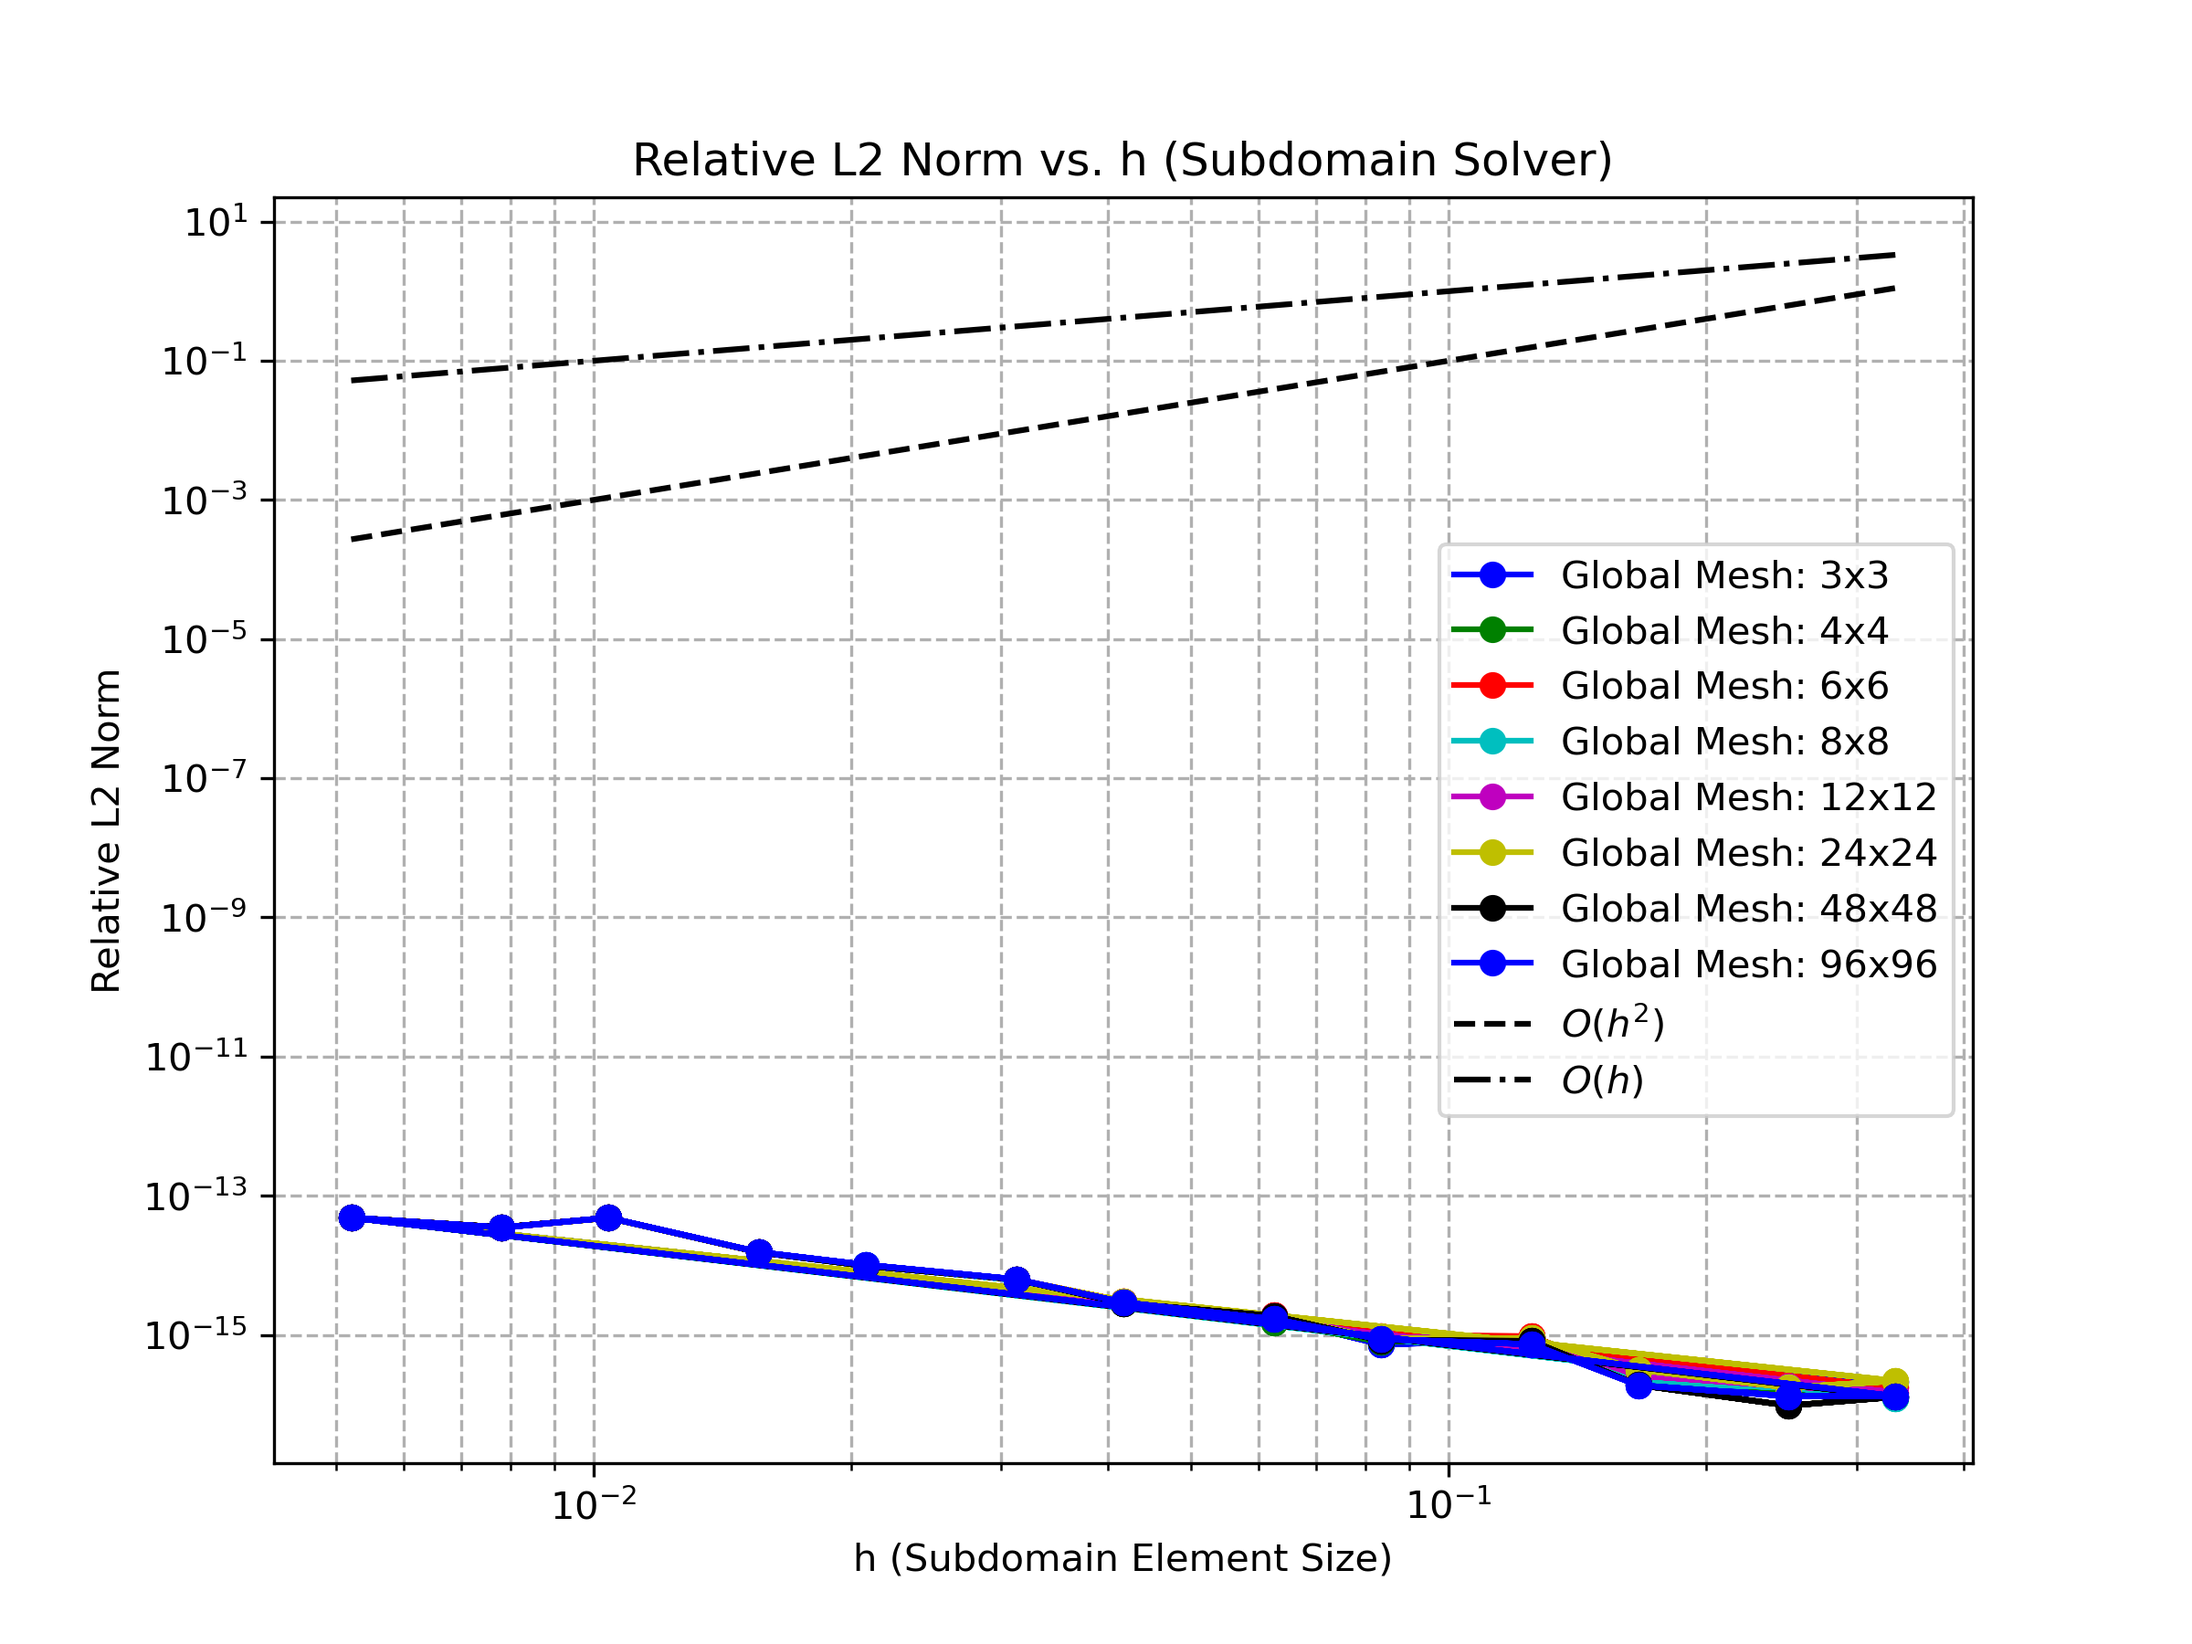
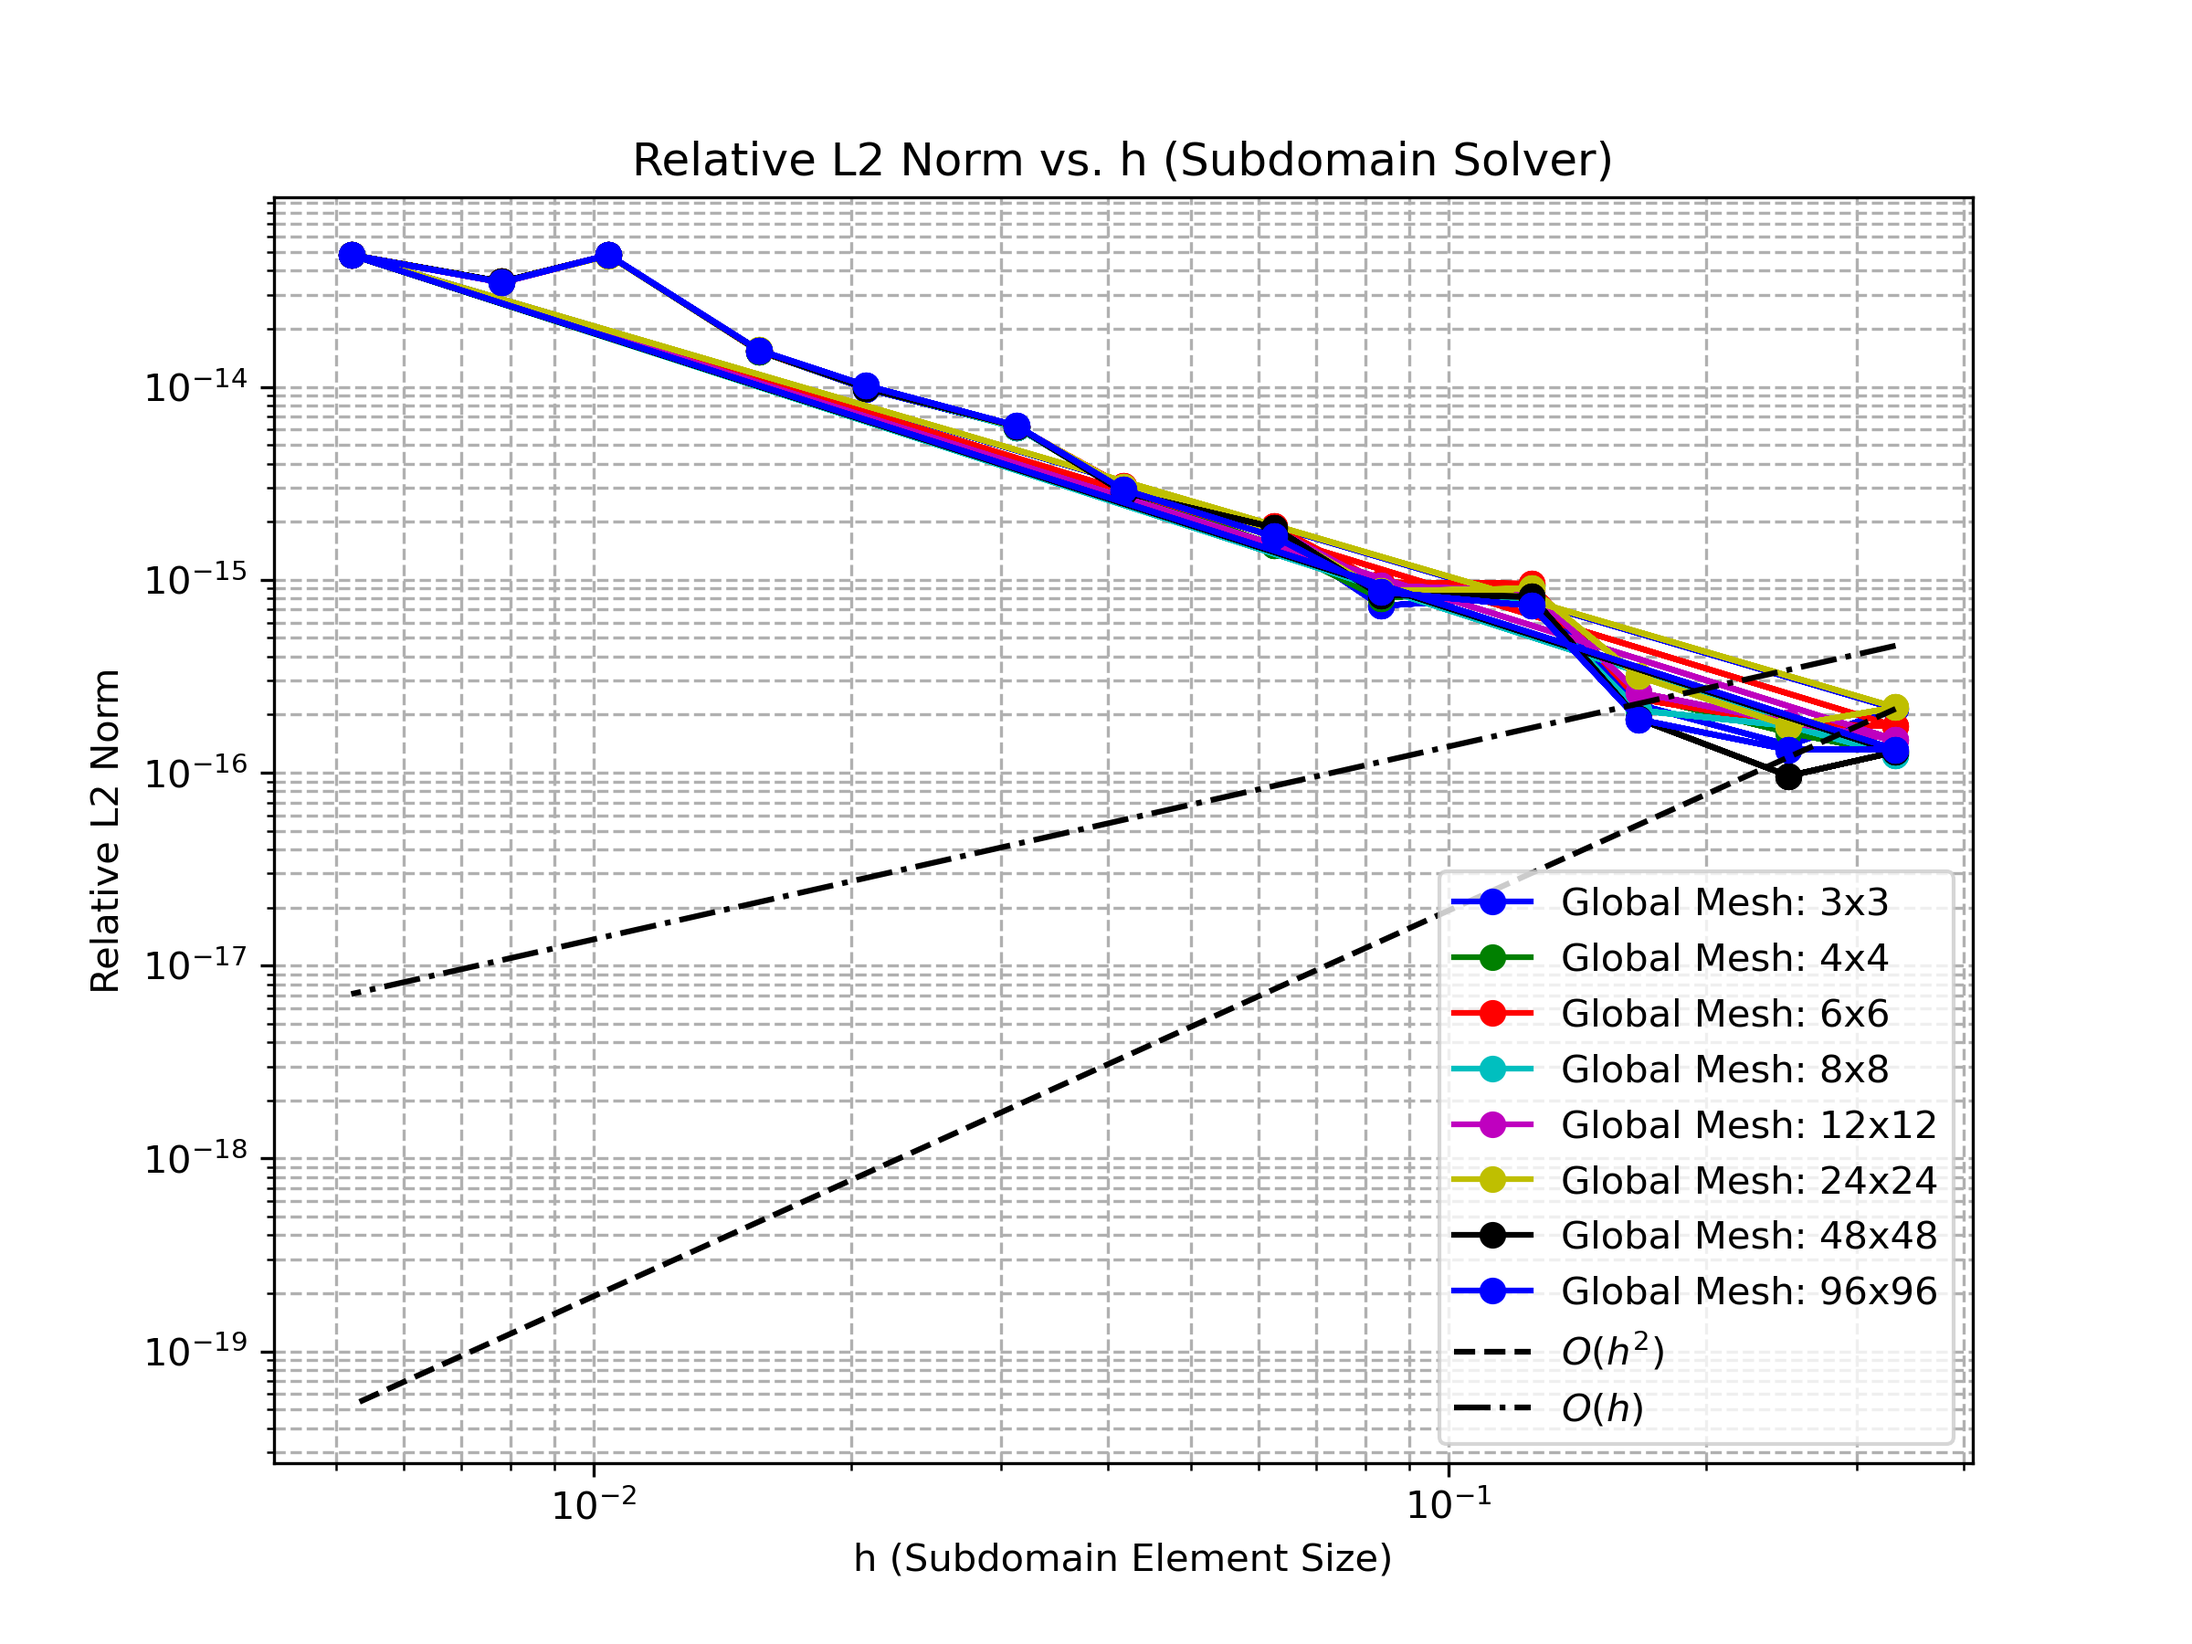
added plots

diff --git a/code/plot2.py b/code/plot2.py
@@ -17,19 +17,31 @@ df = pd.read_csv(csv_file)
 global_mesh_sizes = df[['global_mesh_x', 'global_mesh_y']].drop_duplicates().values
 colors = ['b', 'g', 'r', 'c', 'm', 'y', 'k']  # Colors for multiple plots
 
+# Compute min/max h values for reference lines
+h_min = 1 / df['sub_mesh_x'].max()
+h_max = 1 / df['sub_mesh_x'].min()
+h_ref = np.array([h_max, h_min])
+
+# Select a reasonable reference error from the middle of the data
+ref_index = len(df) // 2
+ref_h = 1 / df.iloc[ref_index]['sub_mesh_x']
+ref_L2 = df.iloc[ref_index]['Relative_L2_norm']
+ref_H1 = df.iloc[ref_index]['H1_norm']
+
+# Define reference lines for O(h^2) and O(h)
+o_h2 = ref_L2 * (h_ref / ref_h)**2  # Quadratic convergence
+o_h1 = ref_H1 * (h_ref / ref_h)  # Linear convergence
+
 # --- Plot 1: Relative L2 Norm vs. h with O(h^2) Reference ---
 plt.figure(figsize=(8, 6))
 
 for i, (Nx, Ny) in enumerate(global_mesh_sizes):
     subset = df[(df['global_mesh_x'] == Nx) & (df['global_mesh_y'] == Ny)]
-    h_subdomain = 1 / subset['sub_mesh_x']  # Compute h values for subdomain mesh
+    h_subdomain = 1 / subset['sub_mesh_x']
     plt.loglog(h_subdomain, subset['Relative_L2_norm'], marker='o', linestyle='-', color=colors[i % len(colors)],
                label=f"Global Mesh: {Nx}x{Ny}")
 
-# Add reference line for O(h^2) (quadratic convergence)
-h_ref = np.array([min(h_subdomain), max(h_subdomain)])
-o_h2 = 10 * h_ref**2  # Adjust scaling to fit within the plot range
-o_h1 = 10 * h_ref  # Linear convergence
+# Plot reference lines
 plt.loglog(h_ref, o_h2, 'k--', label=r"$O(h^2)$")  # Dashed black line
 plt.loglog(h_ref, o_h1, 'k-.', label=r"$O(h)$")  # Dash-dot black line
 
@@ -52,9 +64,7 @@ for i, (Nx, Ny) in enumerate(global_mesh_sizes):
     plt.loglog(h_subdomain, subset['H1_norm'], marker='^', linestyle='--', color=colors[i % len(colors)],
                label=f"H1 Norm (Global {Nx}x{Ny})")
 
-# Add reference lines for O(h^2) and O(h)
-o_h2 = 10 * h_ref**2  # Quadratic convergence
-o_h1 = 10 * h_ref  # Linear convergence
+# Plot reference lines
 plt.loglog(h_ref, o_h2, 'k--', label=r"$O(h^2)$")  # Dashed black line
 plt.loglog(h_ref, o_h1, 'k-.', label=r"$O(h)$")  # Dash-dot black line
 
